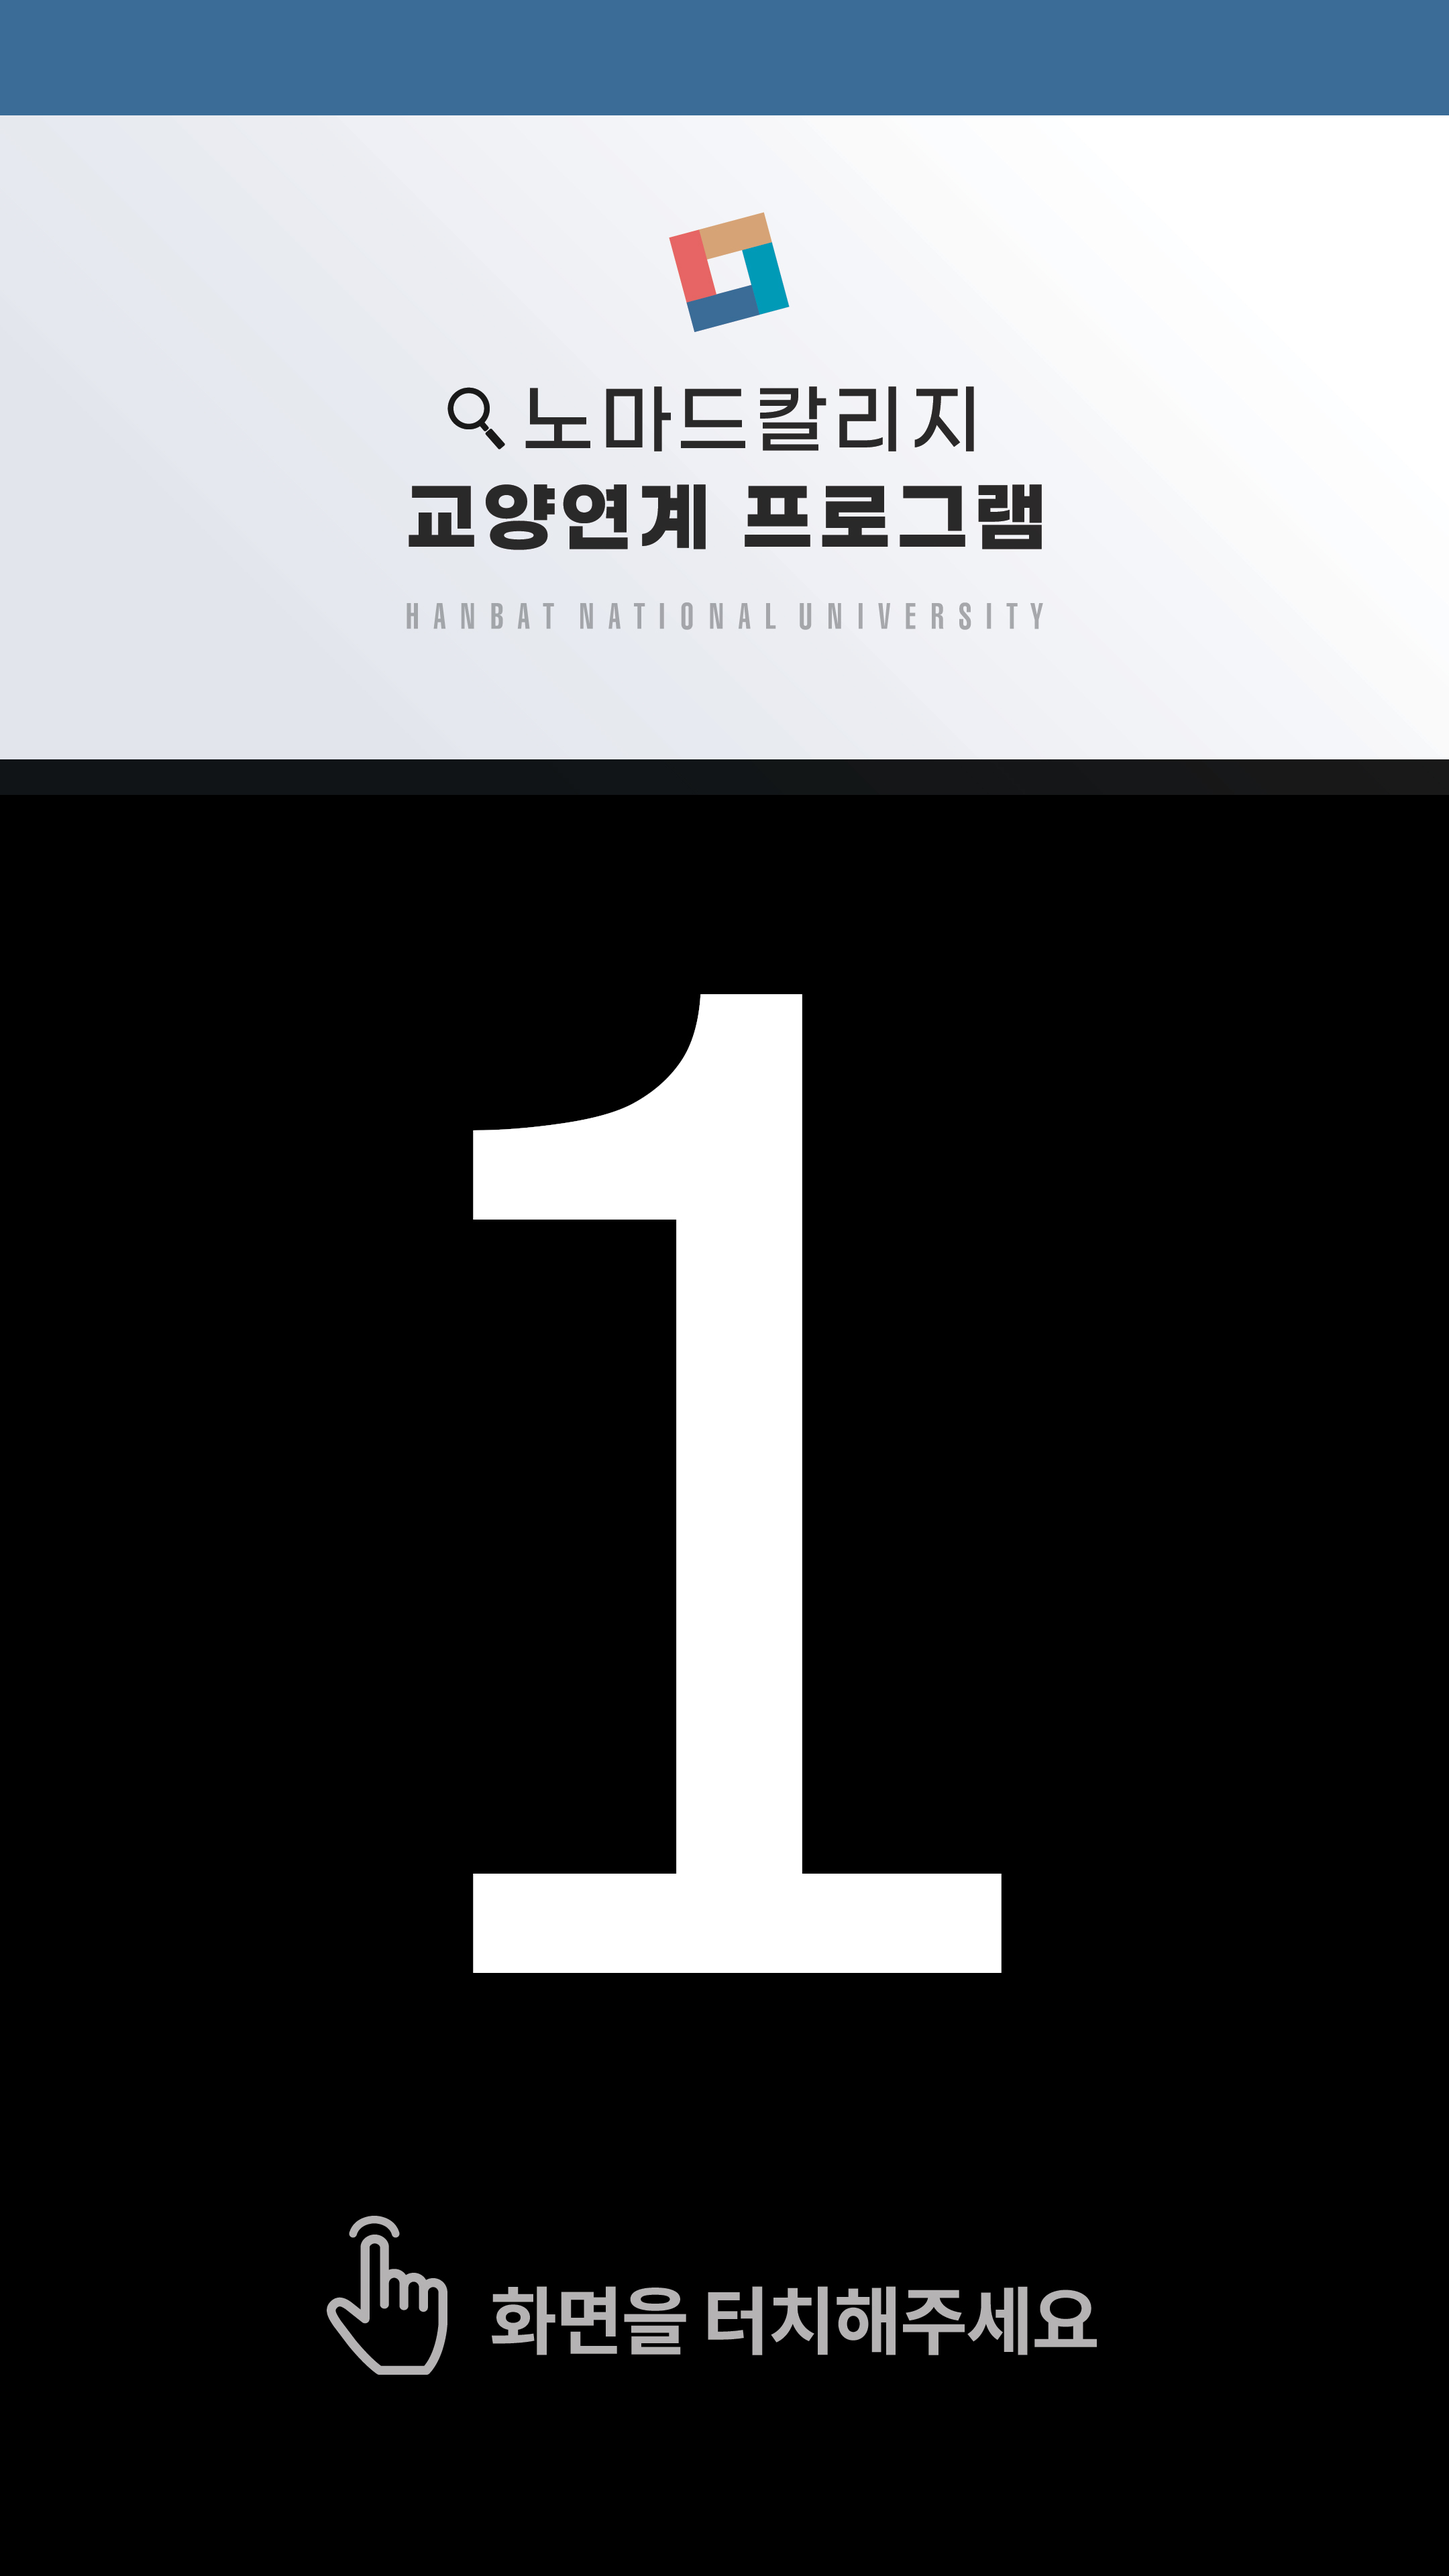
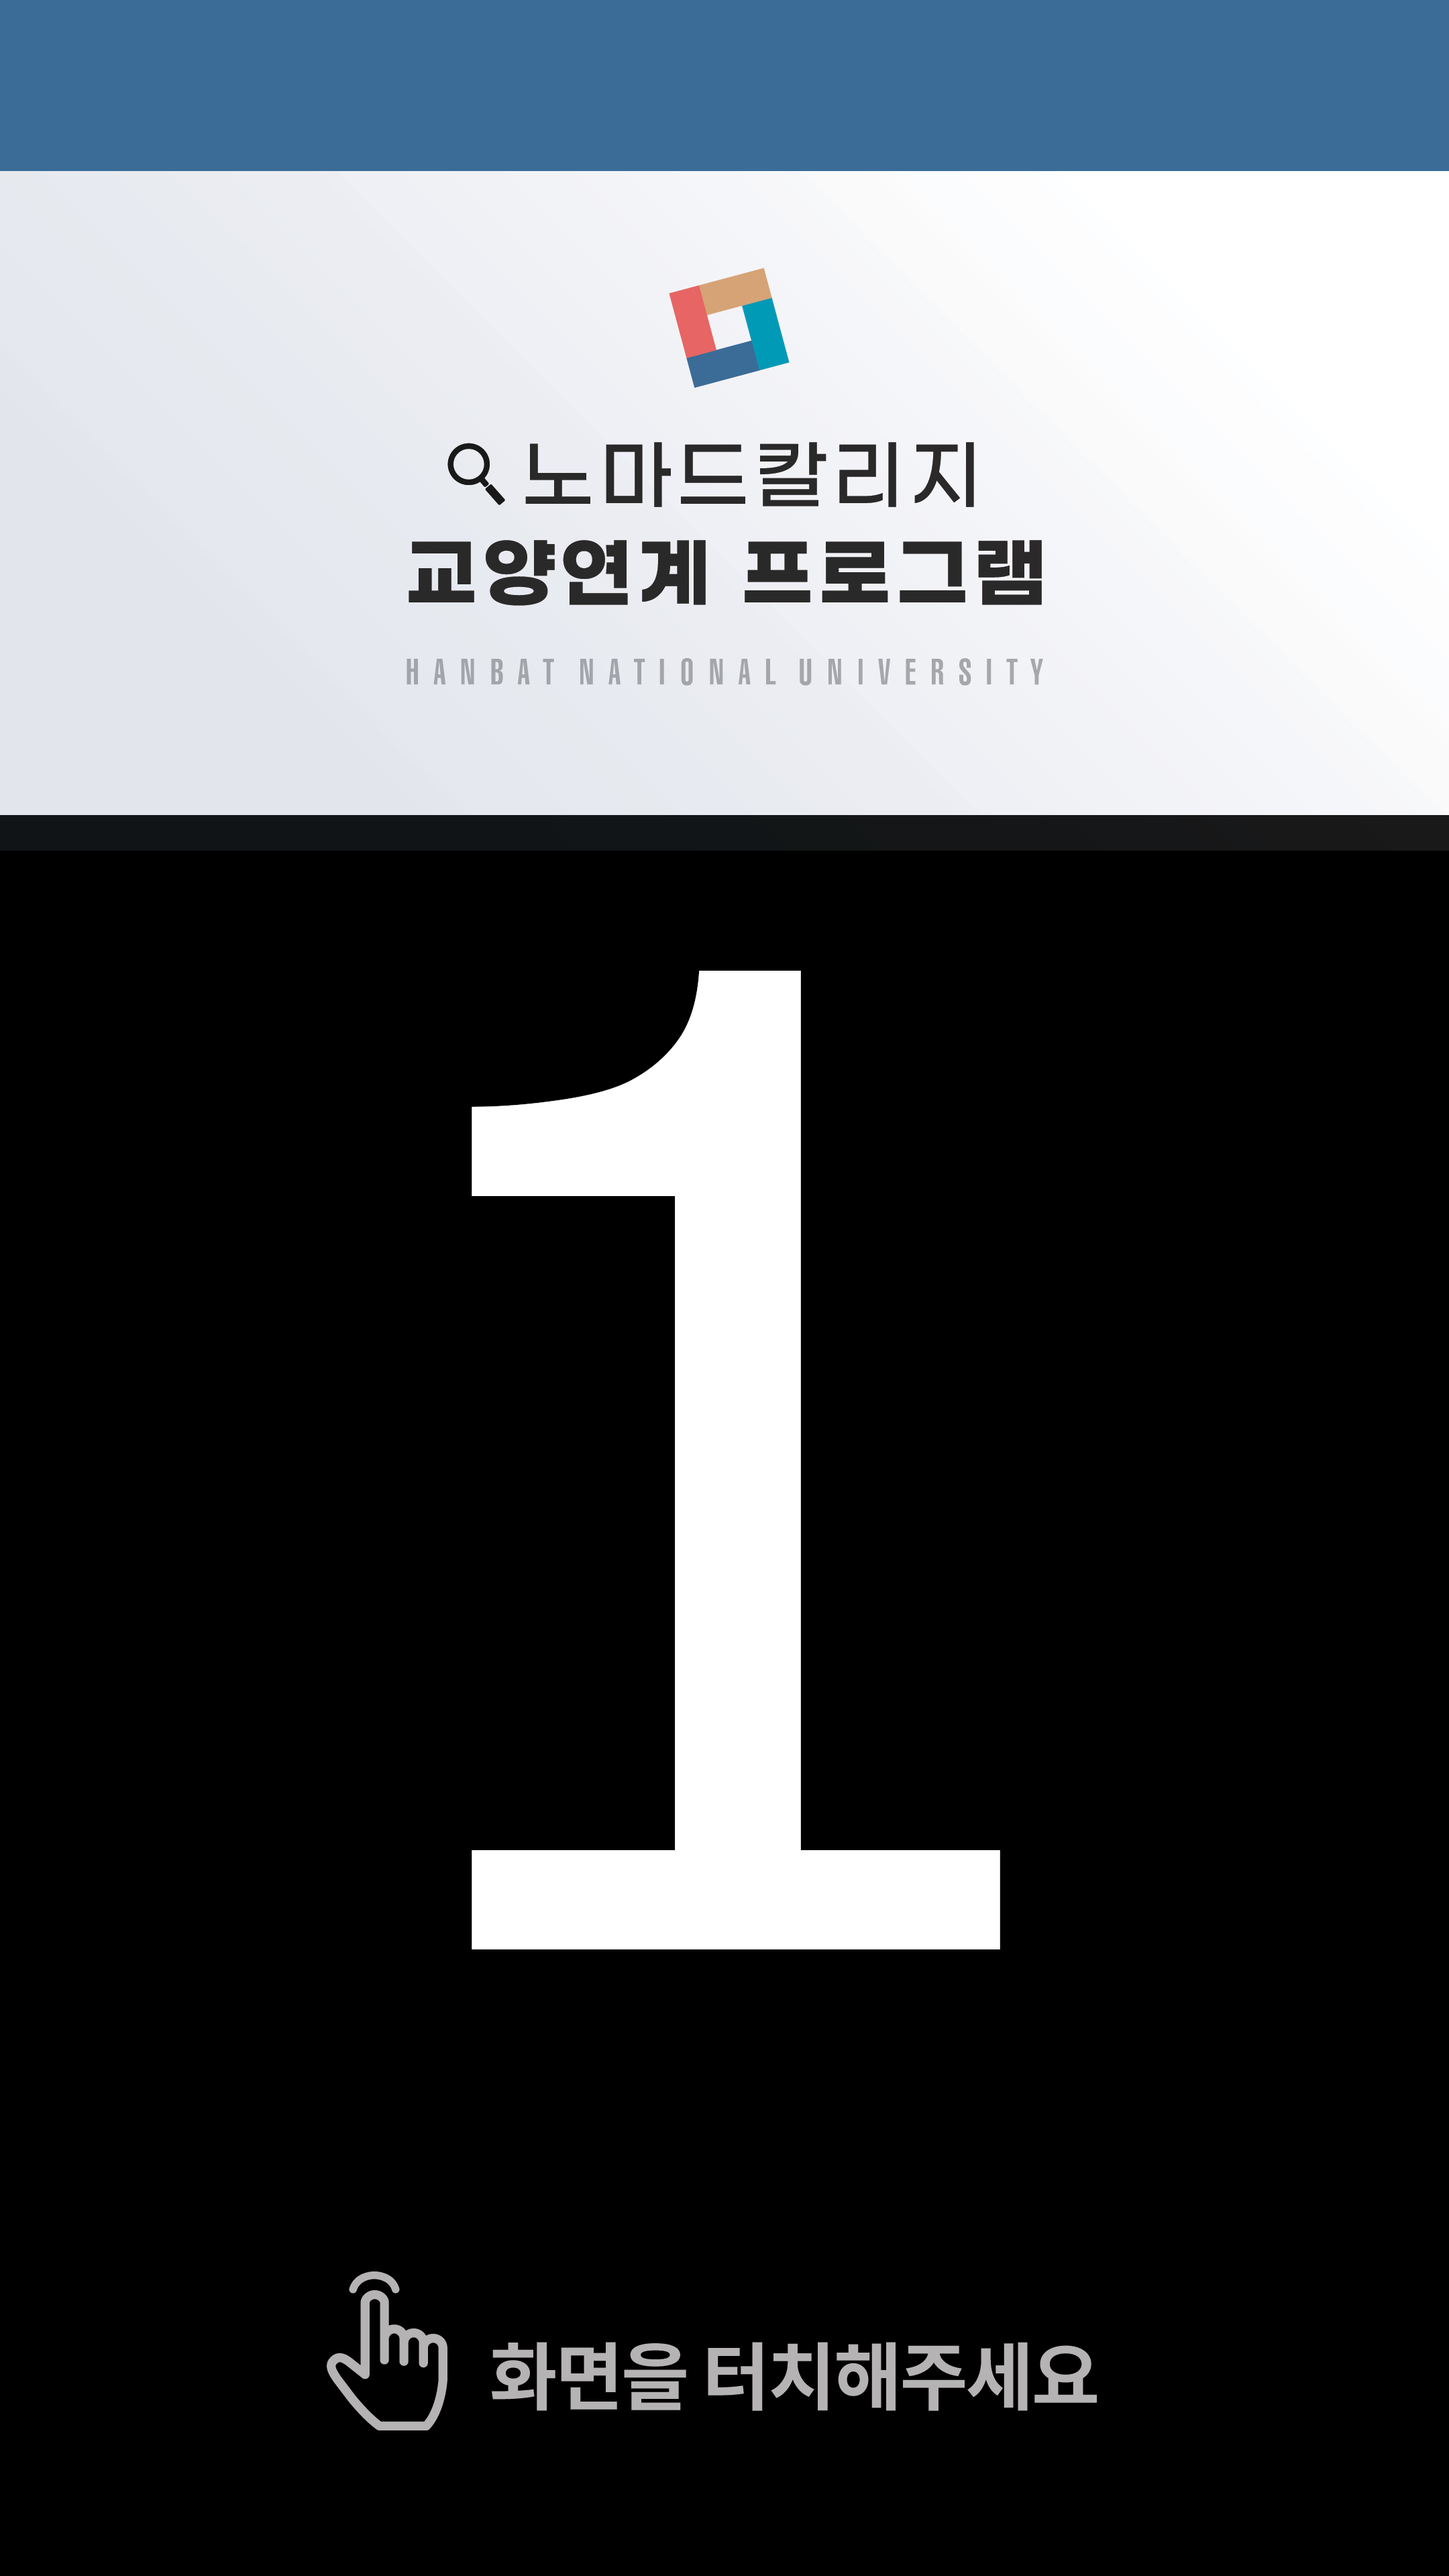
홈화면 슬라이드의 페이지이동 bullet 추가, 홈화면 첫페이지 10초보다 크게 재생되는 것 수정

diff --git a/src/pages/Main.js b/src/pages/Main.js
@@ -9,10 +9,12 @@ import { useState, useRef, useEffect } from 'react'
 import MyVideo1 from "../components/MyVideo1"
 import axios from 'axios';
 import { Swiper, SwiperSlide, useSwiper } from 'swiper/react';
-import { Autoplay, EffectCube, EffectFade } from 'swiper';
+import { Autoplay, EffectCube, EffectFade, Pagination } from 'swiper';
 import 'swiper/css';
 // import 'swiper/css/effect-cube'
 import 'swiper/css/effect-fade'
+import 'swiper/css/pagination'
+import '../styles.css'
 
 const host = "http://localhost";
 const port = 3001;
@@ -28,6 +30,8 @@ export default function Main() {
     const [duration, setDuration] = useState(1000);
     const swiperRef = useRef(null);
     const dictVideo = useRef({});
+    const [pagination1, setPagination1] = useState(false);
+    const [pagination2, setPagination2] = useState(true);
 
     const handlerClick = () => {
         console.log('handlerClick');
@@ -59,33 +63,40 @@ export default function Main() {
             speed={transitionSpeed}
             ref={swiperRef}
             effect="fade"
+            pagination={{
+                dynamicBullets: pagination1,
+                clickable: pagination2,
+            }}
             onSwiper={(swiper) => {
                     console.log(swiper);
                 }
             }
+            onSlideChange = {(swiper) => {
+                console.log('onSlideChange');
+                if(pages[swiper.activeIndex].split('.')[1] === "mp4") {
+                    let filename = pages[swiper.activeIndex].split('.')[0];
+                    console.log('filename='+filename);
+                    console.log(dictVideo);
+                    console.log(dictVideo.current[`${filename}`]);
+                    let videoRefCurrent = dictVideo.current[`${filename}`];
+                    let transitionTime = parseInt(videoRefCurrent.duration*1000) - homeImageTransitionTime;
+                    setDuration(transitionTime);
+                    videoRefCurrent.ref.current.play();
+                }
+                else {
+                    console.log('set duration for image='+homeImageDisplayTime);
+                    setDuration(homeImageDisplayTime);
+                    videoRef.current.pause();
+                }
+            }}
+            onSlideChangeTransitionStart={(swiper) => {
+                console.log('onSlideChangeTransitionEnd');
+
+            }}
             onBeforeTransitionStart={(swiper, speed, internal) => {
-                console.log('onBeforeTransitionStart');
+                // console.log('onBeforeTransitionStart');
                 if(swiper) {
-                    console.log(swiper.activeIndex);
-                    console.log(pages);
-                    if(pages[swiper.activeIndex].split('.')[1] === "mp4") {
-                        let filename = pages[swiper.activeIndex].split('.')[0];
-                        console.log('filename='+filename);
-                        console.log(dictVideo);
-                        console.log(dictVideo.current[`${filename}`]);
-                        let videoRefCurrent = dictVideo.current[`${filename}`];
-                        let transitionTime = parseInt(videoRefCurrent.duration*1000) - homeImageTransitionTime;
-                        setDuration(transitionTime);
-                        // replayVideo();
-                        videoRefCurrent.ref.current.play();
-                    }
-                    else {
-                        console.log('set duration for image='+homeImageDisplayTime);
-                        setDuration(homeImageDisplayTime);
-                        videoRef.current.pause();
-                    }
                     if(pages.length === swiper.activeIndex + 1) {
-                        console.log('setTransition')
                         setTransitionSpeed(0);
                     }
                     else {
@@ -93,14 +104,11 @@ export default function Main() {
                     }
                 }                
             }}
-            onSlideChange={(swiper) => {
-                // console.log('onSlideChange');
-            }}
             autoplay={{
                 delay: duration,
                 disableOnInteraction: false,
             }}
-            modules={[Autoplay, EffectFade]}
+            modules={[Autoplay, EffectFade, Pagination]}
         >
             {
                 pages.length && pages.map((page, index) => {
@@ -126,7 +134,7 @@ export default function Main() {
                 })
             }
         </Swiper>
-        <div style={{position:"absolute", left:"0", top:"0", width:"100%", height:"100%", zIndex:"100" }} onClick={handlerClick}></div>
+        <div style={{position:"absolute", left:"0", top:"0", width:"100%", height:"85%", zIndex:"100" }} onClick={handlerClick}></div>
         </div>
     );
 }

diff --git a/src/styles.css b/src/styles.css
@@ -1,0 +1,57 @@
+#app { height: 100% }
+html,
+body {
+  position: relative;
+  height: 100%;
+}
+
+body {
+  background: #eee;
+  font-family: Helvetica Neue, Helvetica, Arial, sans-serif;
+  font-size: 14px;
+  color: #000;
+  margin: 0;
+  padding: 0;
+}
+
+.swiper {
+  width: 100%;
+  height: 100%;
+}
+
+.swiper-slide {
+  text-align: center;
+  font-size: 18px;
+  background: #fff;
+
+  /* Center slide text vertically */
+  display: -webkit-box;
+  display: -ms-flexbox;
+  display: -webkit-flex;
+  display: flex;
+  -webkit-box-pack: center;
+  -ms-flex-pack: center;
+  -webkit-justify-content: center;
+  justify-content: center;
+  -webkit-box-align: center;
+  -ms-flex-align: center;
+  -webkit-align-items: center;
+  align-items: center;
+}
+
+.swiper-slide img {
+  display: block;
+  width: 100%;
+  height: 100%;
+  object-fit: cover;
+}
+
+.swiper-pagination-bullet {
+    background-color: #999;
+    border: white solid 3px;
+}
+
+.swiper-pagination-bullet-active {
+    background-color: #fff;
+    border: white solid 3px;
+}

diff --git a/src/components/MyVideo1.js b/src/components/MyVideo1.js
@@ -105,9 +105,9 @@ const MyVideo1 = forwardRef((props, ref1) => {
     videoElement.pause();
   };
   const handleLoadedmetadata = () => {
-      console.log('handleMetadata');
+      // console.log('handleMetadata');
       if(videoElement) {
-        console.log(videoElement.duration);
+        // console.log(videoElement.duration);
         props.getVideoInfoHook(videoElement.duration, props.src, ref);
       }
   }
@@ -116,7 +116,7 @@ const MyVideo1 = forwardRef((props, ref1) => {
     <div>
       <video
         loop={false}
-        muted={false}
+        muted={true}
         ref={ref}
         playsInline={true}
         onClick={handleControlVisible}
